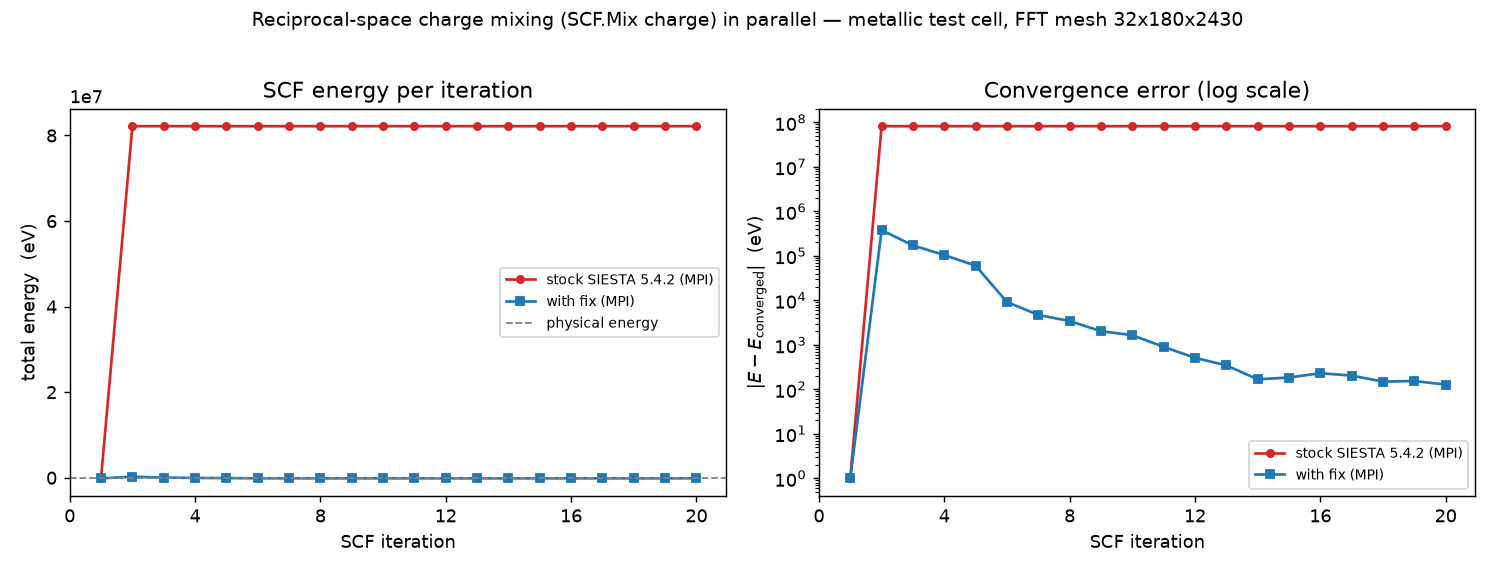
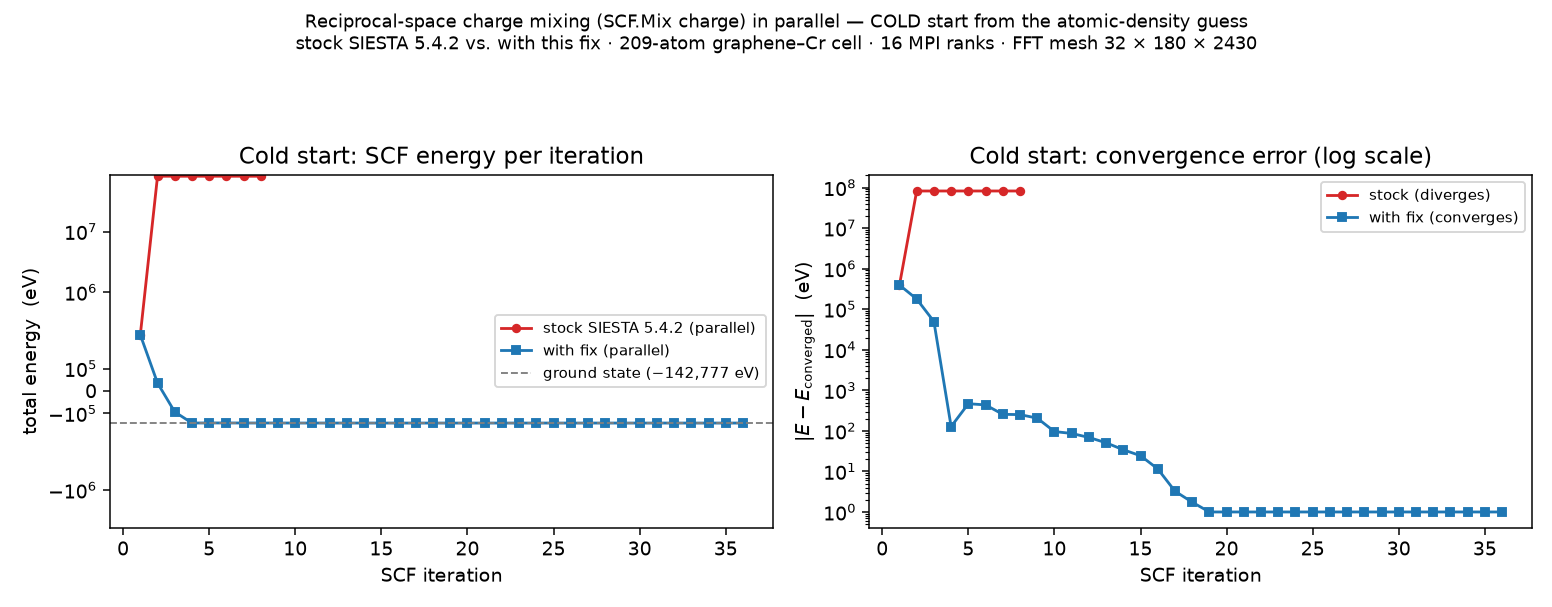
Make figure 1 a true cold-start before/after; consolidate
Replace the warm before/after with a cold comparison from the identical
atomic-density guess: stock parallel explodes to +8.2e7 eV and pins there,
the fix descends to the -142,777 eV ground state in ~20 iters. The stock
curve is a real run of an unfixed build of the same source (same input),
so it is apples-to-apples. Update the symptom trace to the cold numbers and
drop the now-redundant separate cold-start figure.

diff --git a/figures/plot_convergence.py b/figures/plot_convergence.py
@@ -2,46 +2,48 @@ import matplotlib; matplotlib.use("Agg")
 import matplotlib.pyplot as plt
 import numpy as np
 
-# --- measured SCF total energies (eV) vs iteration, parallel MPI run (16 ranks) ---
-# After the fix (serial-FFT bypass): converges to the physical ground state.
-after = [-142776.596552, 235969.910560, 28873.848471, -38160.816345, -82599.224251,
-         -133579.973964, -138076.286495, -139348.662385, -140743.372213, -141127.098204,
-         -141874.610397, -142265.289774, -142430.239340, -142608.798065, -142592.019368,
-         -142545.977535, -142572.544631, -142627.428699, -142622.602530, -142648.906364]
-# Before the fix (stock SIESTA 5.4.2): the parallel FFT corrupts the density and the
-# energy explodes at iteration 2 and stays pinned near +8.2e7 eV (measured:
-# scf2=+82,178,078  scf3=+82,178,082  scf4=+82,178,094  scf5=+82,178,096 ... scf20=+82,178,110).
-before = [-142776.596552, 82178078.291, 82178081.801, 82178094.243, 82178096.040] \
-         + [82178100.0]*14 + [82178110.120]
+def load(path):
+    E = []
+    for l in open(path):
+        s = l.split()
+        if len(s) > 3 and s[0] == "scf:":
+            try: E.append(float(s[3]))   # E_KS
+            except: pass
+    return np.array(E)
 
-it   = np.arange(1, 21)
-Eref = -142776.6                      # physical reference (converged / warm-start energy)
+fix = load("/home/bjarke/rc210/COLDCHG.log")     # fixed parallel charge mixing (converges)
+stk = load("/home/bjarke/rc210/COLDSTOCK.log")   # stock parallel, identical input (explodes)
+Eref = -142776.6
 RED, BLU, GRY = "#d62728", "#1f77b4", "0.5"
 
-fig, (ax1, ax2) = plt.subplots(1, 2, figsize=(11.5, 4.4))
+print("stock pts:", len(stk), "vals:", stk[:4])
+print("fix   pts:", len(fix), "start/end:", fix[0], fix[-1])
 
-# Panel A: raw SCF energy
-ax1.plot(it, before, 'o-', color=RED, ms=4, label='stock SIESTA 5.4.2 (MPI)')
-ax1.plot(it, after,  's-', color=BLU, ms=4, label='with fix (MPI)')
-ax1.axhline(Eref, color=GRY, ls='--', lw=1, label='physical energy')
-ax1.set_xlabel('SCF iteration'); ax1.set_ylabel('total energy  (eV)')
-ax1.set_title('SCF energy per iteration')
-ax1.set_xticks(range(0, 21, 4)); ax1.legend(fontsize=8, loc='center right')
-ax1.ticklabel_format(axis='y', style='sci', scilimits=(0, 0))
+fig, (ax1, ax2) = plt.subplots(1, 2, figsize=(11.5, 4.5))
 
-# Panel B: convergence error, log scale
-eb = np.abs(np.array(before) - Eref); ea = np.abs(np.array(after) - Eref)
-eb[eb < 1] = 1.0; ea[ea < 1] = 1.0
-ax2.semilogy(it, eb, 'o-', color=RED, ms=4, label='stock SIESTA 5.4.2 (MPI)')
-ax2.semilogy(it, ea, 's-', color=BLU, ms=4, label='with fix (MPI)')
-ax2.set_xlabel('SCF iteration'); ax2.set_ylabel(r'$|E - E_{\mathrm{converged}}|$  (eV)')
-ax2.set_title('Convergence error (log scale)')
-ax2.set_xticks(range(0, 21, 4)); ax2.legend(fontsize=8)
+# Panel A: SCF energy (symlog to span the explosion and the descent)
+ax1.plot(np.arange(1, len(stk)+1), stk, "o-", color=RED, ms=4, label="stock SIESTA 5.4.2 (parallel)")
+ax1.plot(np.arange(1, len(fix)+1), fix, "s-", color=BLU, ms=4, label="with fix (parallel)")
+ax1.axhline(Eref, color=GRY, ls="--", lw=1, label="ground state (−142,777 eV)")
+lt = max(3e5, np.abs(stk).max()/1e3 if len(stk) else 3e5)
+ax1.set_yscale("symlog", linthresh=3e5)
+ax1.set_xlabel("SCF iteration"); ax1.set_ylabel("total energy  (eV)")
+ax1.set_title("Cold start: SCF energy per iteration")
+ax1.legend(fontsize=8, loc="center right")
 
-fig.suptitle('Reciprocal-space charge mixing (SCF.Mix charge) in parallel — '
-             'metallic test cell, FFT mesh 32x180x2430',
-             fontsize=10.5)
-fig.tight_layout(rect=(0, 0, 1, 0.96))
+# Panel B: convergence error, log scale (the clean contrast)
+ef = np.abs(fix - Eref); ef[ef < 1] = 1.0
+es = np.abs(stk - Eref); es[es < 1] = 1.0
+ax2.semilogy(np.arange(1, len(es)+1), es, "o-", color=RED, ms=4, label="stock (diverges)")
+ax2.semilogy(np.arange(1, len(ef)+1), ef, "s-", color=BLU, ms=4, label="with fix (converges)")
+ax2.set_xlabel("SCF iteration"); ax2.set_ylabel(r"$|E - E_{\mathrm{converged}}|$  (eV)")
+ax2.set_title("Cold start: convergence error (log scale)")
+ax2.legend(fontsize=8)
+
+fig.suptitle("Reciprocal-space charge mixing (SCF.Mix charge) in parallel — COLD start from the atomic-density guess\n"
+             "stock SIESTA 5.4.2 vs. with this fix · 209-atom graphene–Cr cell · 16 MPI ranks · FFT mesh 32 × 180 × 2430",
+             fontsize=9.5)
+fig.tight_layout(rect=(0, 0, 1, 0.90))
 out = "/mnt/c/Users/bjark/siesta-build/_ghfix/repo/figures/convergence_before_after.png"
-fig.savefig(out, dpi=130)
+fig.savefig(out, dpi=135)
 print("saved", out)

diff --git a/README.md b/README.md
@@ -6,7 +6,7 @@ This repo provides a **drop-in fix**: route the (cheap) charge-mixing FFT throug
 
 ![Convergence, stock SIESTA vs. with the fix](figures/convergence_before_after.png)
 
-*Same calculation — Kerker charge mixing, 16 MPI ranks, FFT mesh 32×180×2430 — with stock SIESTA 5.4.2 vs. with this fix. **Left:** stock SIESTA's total energy explodes to +8.2×10⁷ eV at iteration 2 and stays pinned there; with the fix it remains physical and converges to the ground state. **Right:** the convergence error on a log scale — stock is stuck near 10⁸ eV (diverged), the fix decays smoothly toward convergence. (This is a warm-started run; the single first-step bump in the fixed curve is a benign artifact of taking the raw output density on iteration 1, and disappears with `SCF.MixCharge.SCF1 true` — see the clean cold-start descent below.)*
+*The identical calculation — `SCF.Mix charge` (Kerker / ρ(G) mixing), **cold start from the neutral-atom density guess** (no prior density matrix), 16 MPI ranks, FFT mesh 32×180×2430 — with stock SIESTA 5.4.2 vs. with this fix. **Left:** from the same +2.5×10⁵ eV starting guess, stock SIESTA's energy explodes to +8.2×10⁷ eV at iteration 2 and stays pinned (the parallel-FFT bug — start-independent), while the fix descends cleanly through zero to the −142,777 eV ground state. **Right:** convergence error on a log scale — stock is stuck near 10⁸ eV (diverged); the fix reaches < 1 eV of the converged energy by ~iteration 20. No prior density matrix, no per-structure tuning — exactly the "drop it on any structure" behavior charge mixing is meant to give.*
 
 ---
 
@@ -24,31 +24,28 @@ The development system is a **graphene-on-chromium device cell** (209 atoms; FFT
 
 ## Why it matters: cold-start convergence
 
-Fixing parallel charge mixing isn't just about avoiding a crash — it unlocks the reason you'd reach for reciprocal-space (Kerker) charge mixing in the first place: **robust convergence of a metallic cell from scratch.** Kerker mixing is the textbook cure for charge sloshing in large metallic systems, but the FFT bug made it unusable in parallel. With the fix, a **cold start from the neutral-atom density guess** (no prior density matrix — the realistic case when every structure is different) descends cleanly to the ground state:
+Fixing parallel charge mixing isn't just about avoiding a crash — it unlocks the reason you'd reach for reciprocal-space (Kerker) charge mixing in the first place: **robust convergence of a metallic cell from scratch.** Kerker mixing is the textbook cure for charge sloshing in large metallic systems, but the FFT bug made it unusable in parallel. The cold-start comparison above (no prior density matrix — the realistic case when every structure is different) is the payoff: stock parallel charge mixing diverges, while the fix descends monotonically to the ground state in ~20 iterations with no per-structure hand-tuning.
 
-![Cold-start convergence with charge mixing](figures/cold_start_convergence.png)
-
-*Cold start (no prior density matrix), fixed parallel charge mixing at 16 MPI ranks. From the +2.5×10⁵ eV atomic-density guess the SCF descends **monotonically** to the −142,777 eV ground state, reaching < 1 eV of the converged energy by ~iteration 20 — no charge sloshing, no per-structure hand-tuning. Recipe: `SCF.Mix charge`, Kerker `SCF.Kerker.q0sq 1.0 Ry`, `SCF.RhoG.DIIS.Depth 8`, `SCF.RhoG.DIIS.UseSVD False`, `SCF.MixCharge.SCF1 true`, weight 0.10, Methfessel-Paxton smearing at 1000 K.*
+The recipe used for the cold run: `SCF.Mix charge`, Kerker `SCF.Kerker.q0sq 1.0 Ry`, `SCF.RhoG.DIIS.Depth 8`, `SCF.RhoG.DIIS.UseSVD False`, **`SCF.MixCharge.SCF1 true`** (damps the first step — without it a warm-started run shows a large but harmless first-iteration transient), weight 0.10, Methfessel-Paxton smearing at 1000 K.
 
 ## Symptom
 
-`SCF.Mix charge`, warm-started, in an MPI run on the large mesh:
+`SCF.Mix charge` in an MPI run on the large mesh, cold from the atomic-density guess:
 
 ```
-scf: 1   -142776.6 eV
-scf: 2  +82,178,078 eV     <-- explodes, then stays pinned (often ends in SIGSEGV)
+stock SIESTA 5.4.2 (parallel):
+  scf: 1    +250,542 eV
+  scf: 2  +81,972,023 eV    <-- explodes, then stays pinned (often ends in SIGSEGV)
+
+with this fix (parallel), identical input:
+  scf: 1    +250,542 eV
+  scf: 2     +35,638 eV
+  scf: 3     -93,086 eV      <-- descending cleanly
+   ...
+  scf:20    -142,776 eV      <-- converged ground state
 ```
 
-The identical input in **serial** is fine, and **with this fix the parallel run reproduces it**:
-
-```
-scf: 1   -142776.6 eV
-scf: 2     +235,969.9 eV   <-- a normal first-step Kerker overshoot
-scf: 3      +28,873.8 eV
-scf: 4      -38,160.8 eV   <-- recovering; converges normally
- ...
-scf:20    -142,648.9 eV    <-- approaching the ground state
-```
+The same stock calculation is **correct in serial** and for small meshes — only the large-mesh *parallel* run corrupts the density.
 
 ## Validation
 